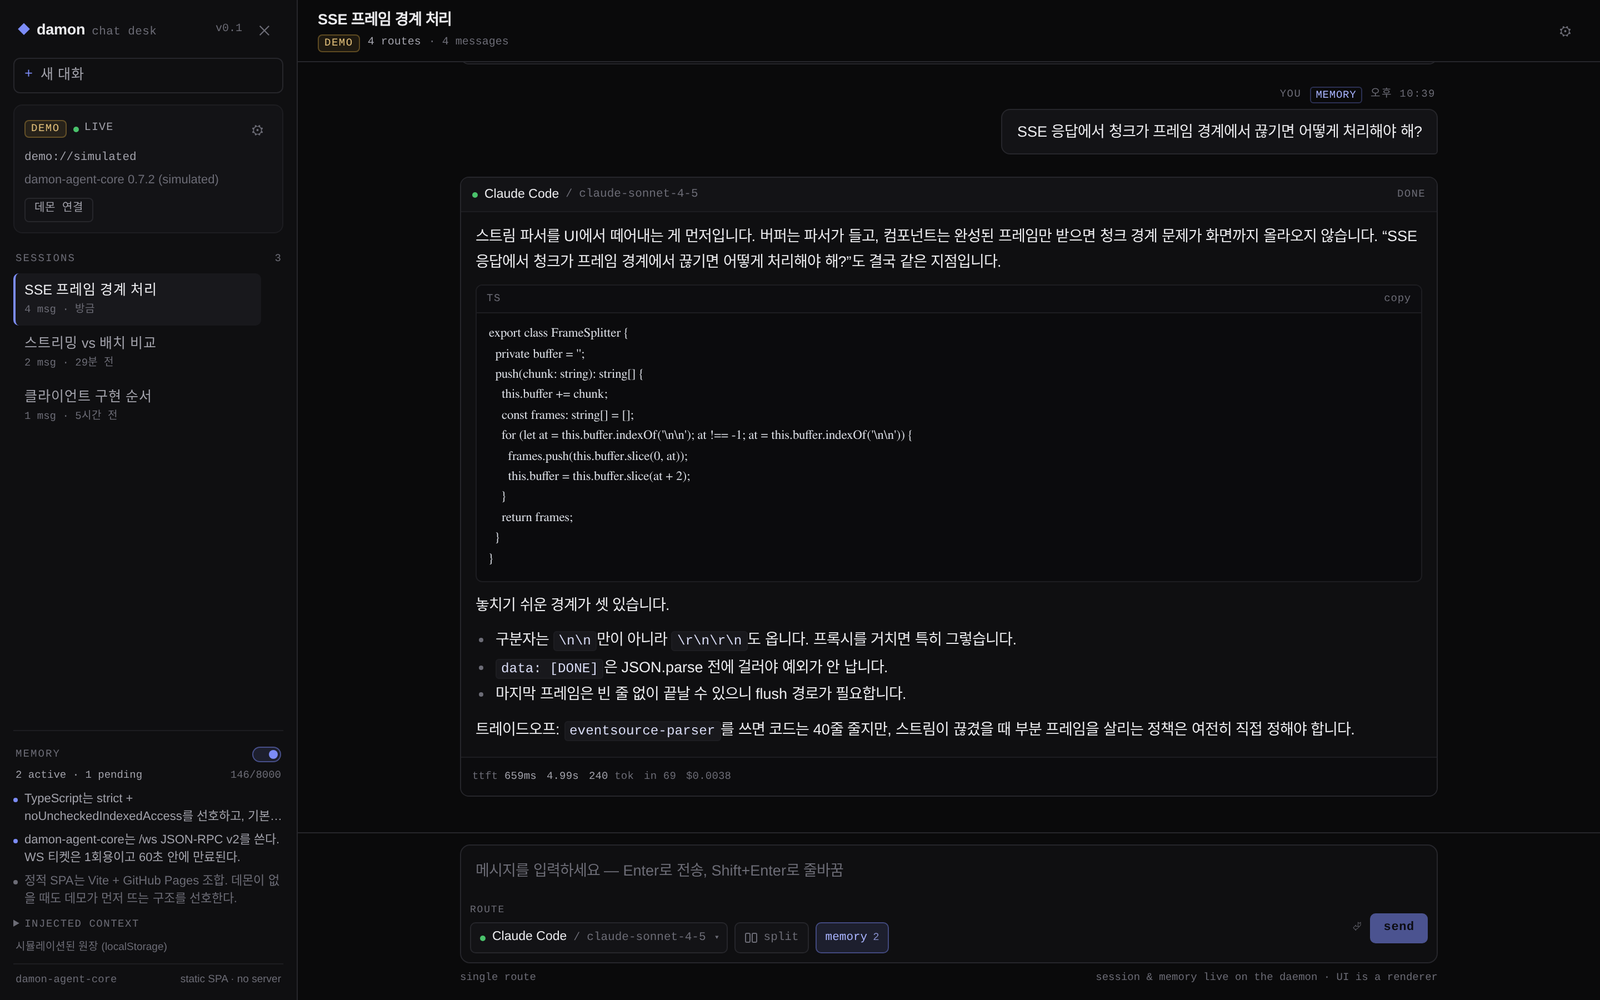
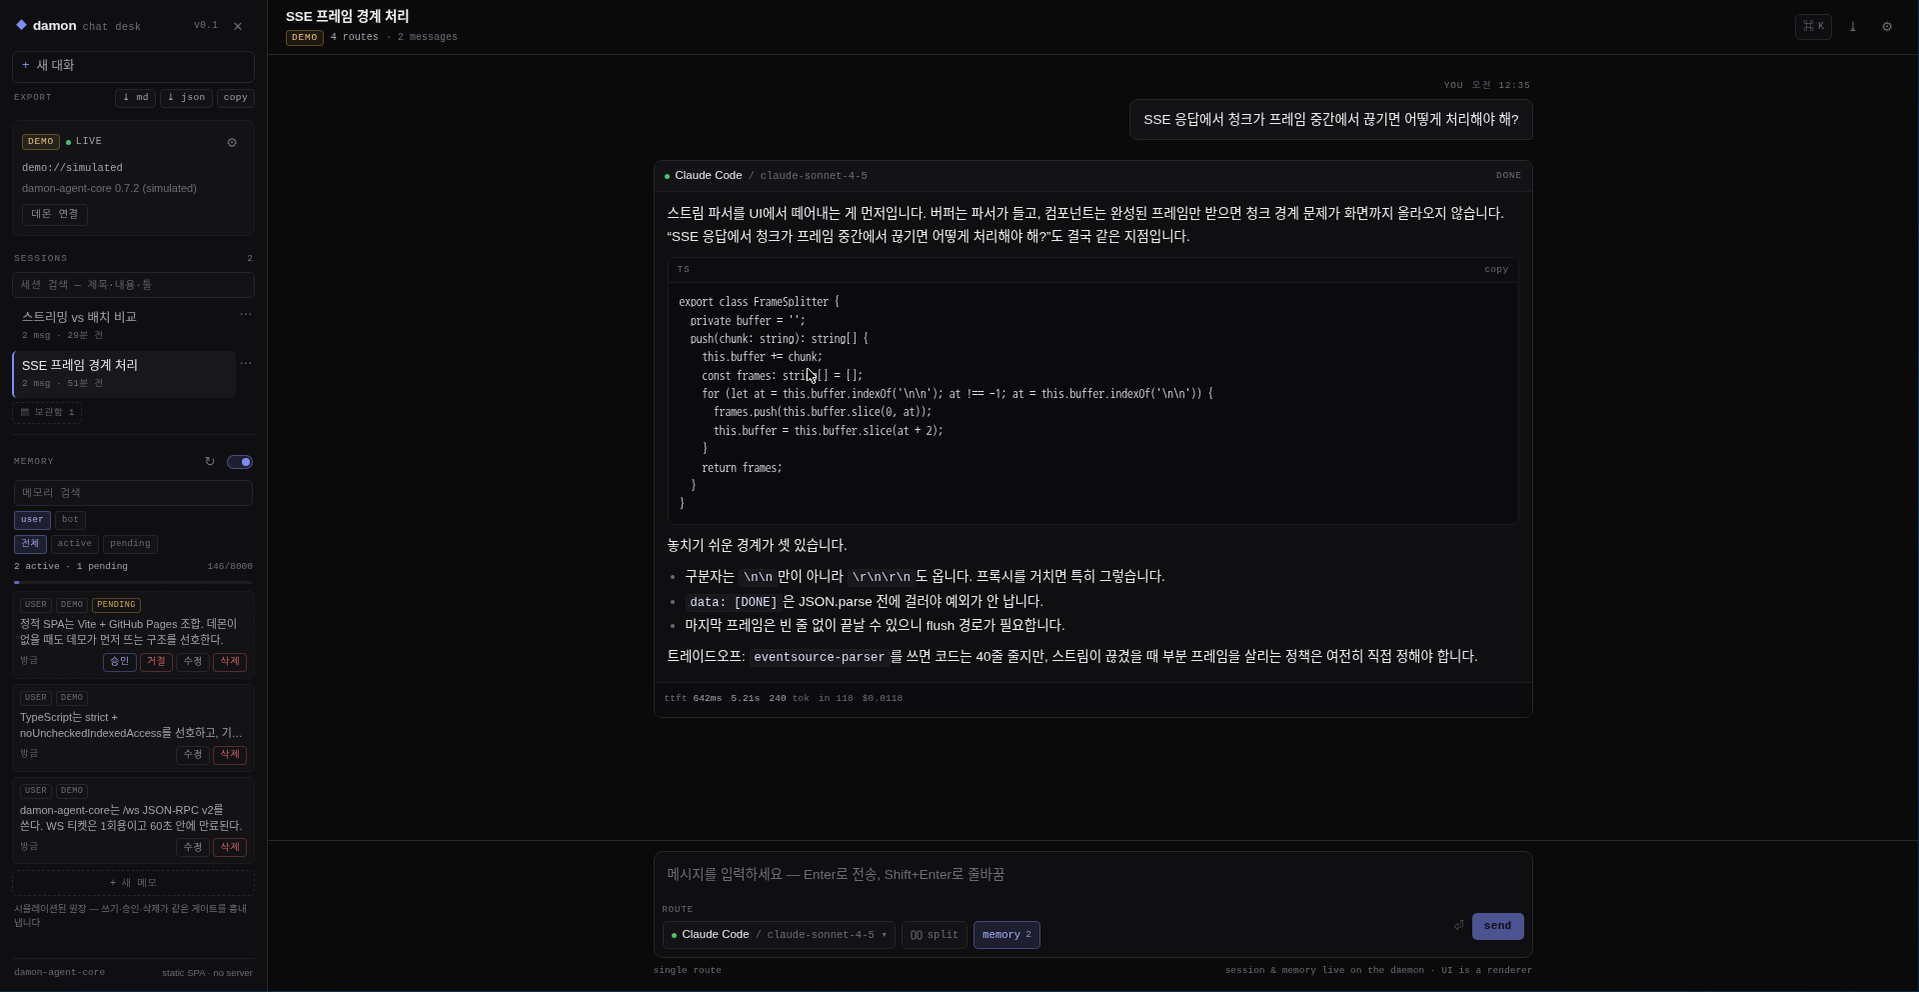
docs: live demo 링크와 실제 Pages 배포 상태로 README 갱신
- 최상단에 ▶ Live Demo(developjik.github.io/damon-chat-desk)와 배포 배지 추가
- 배포 섹션: docs/deploy.workflow.yml 복사 안내 + workflows 스코프 미설정 문구를
  실제 .github/workflows/deploy.yml · Pages(build_type: workflow) 현행 상태로 교체
- 스크린샷 갱신(docs/chat.png, ⌘K·세션 검색 포함 최신 빌드), 모바일 390px 캡처 추가
- 데몬 표면 정렬 기준을 damon-agent-core v0.8.0으로 명시, 데모 hello 표기도 0.8.0
- docs/deploy.workflow.yml은 참고용 사본임을 헤더에 명시

diff --git a/src/lib/desk.ts b/src/lib/desk.ts
@@ -289,7 +289,7 @@ export class DeskController {
       transport: 'demo',
       status: 'live',
       baseUrl: 'demo://simulated',
-      version: 'damon-agent-core 0.7.2 (simulated)',
+      version: 'damon-agent-core 0.8.0 (simulated)',
       targets,
       probeNote: note ?? 'simulated daemon — no network, no keys',
     });
